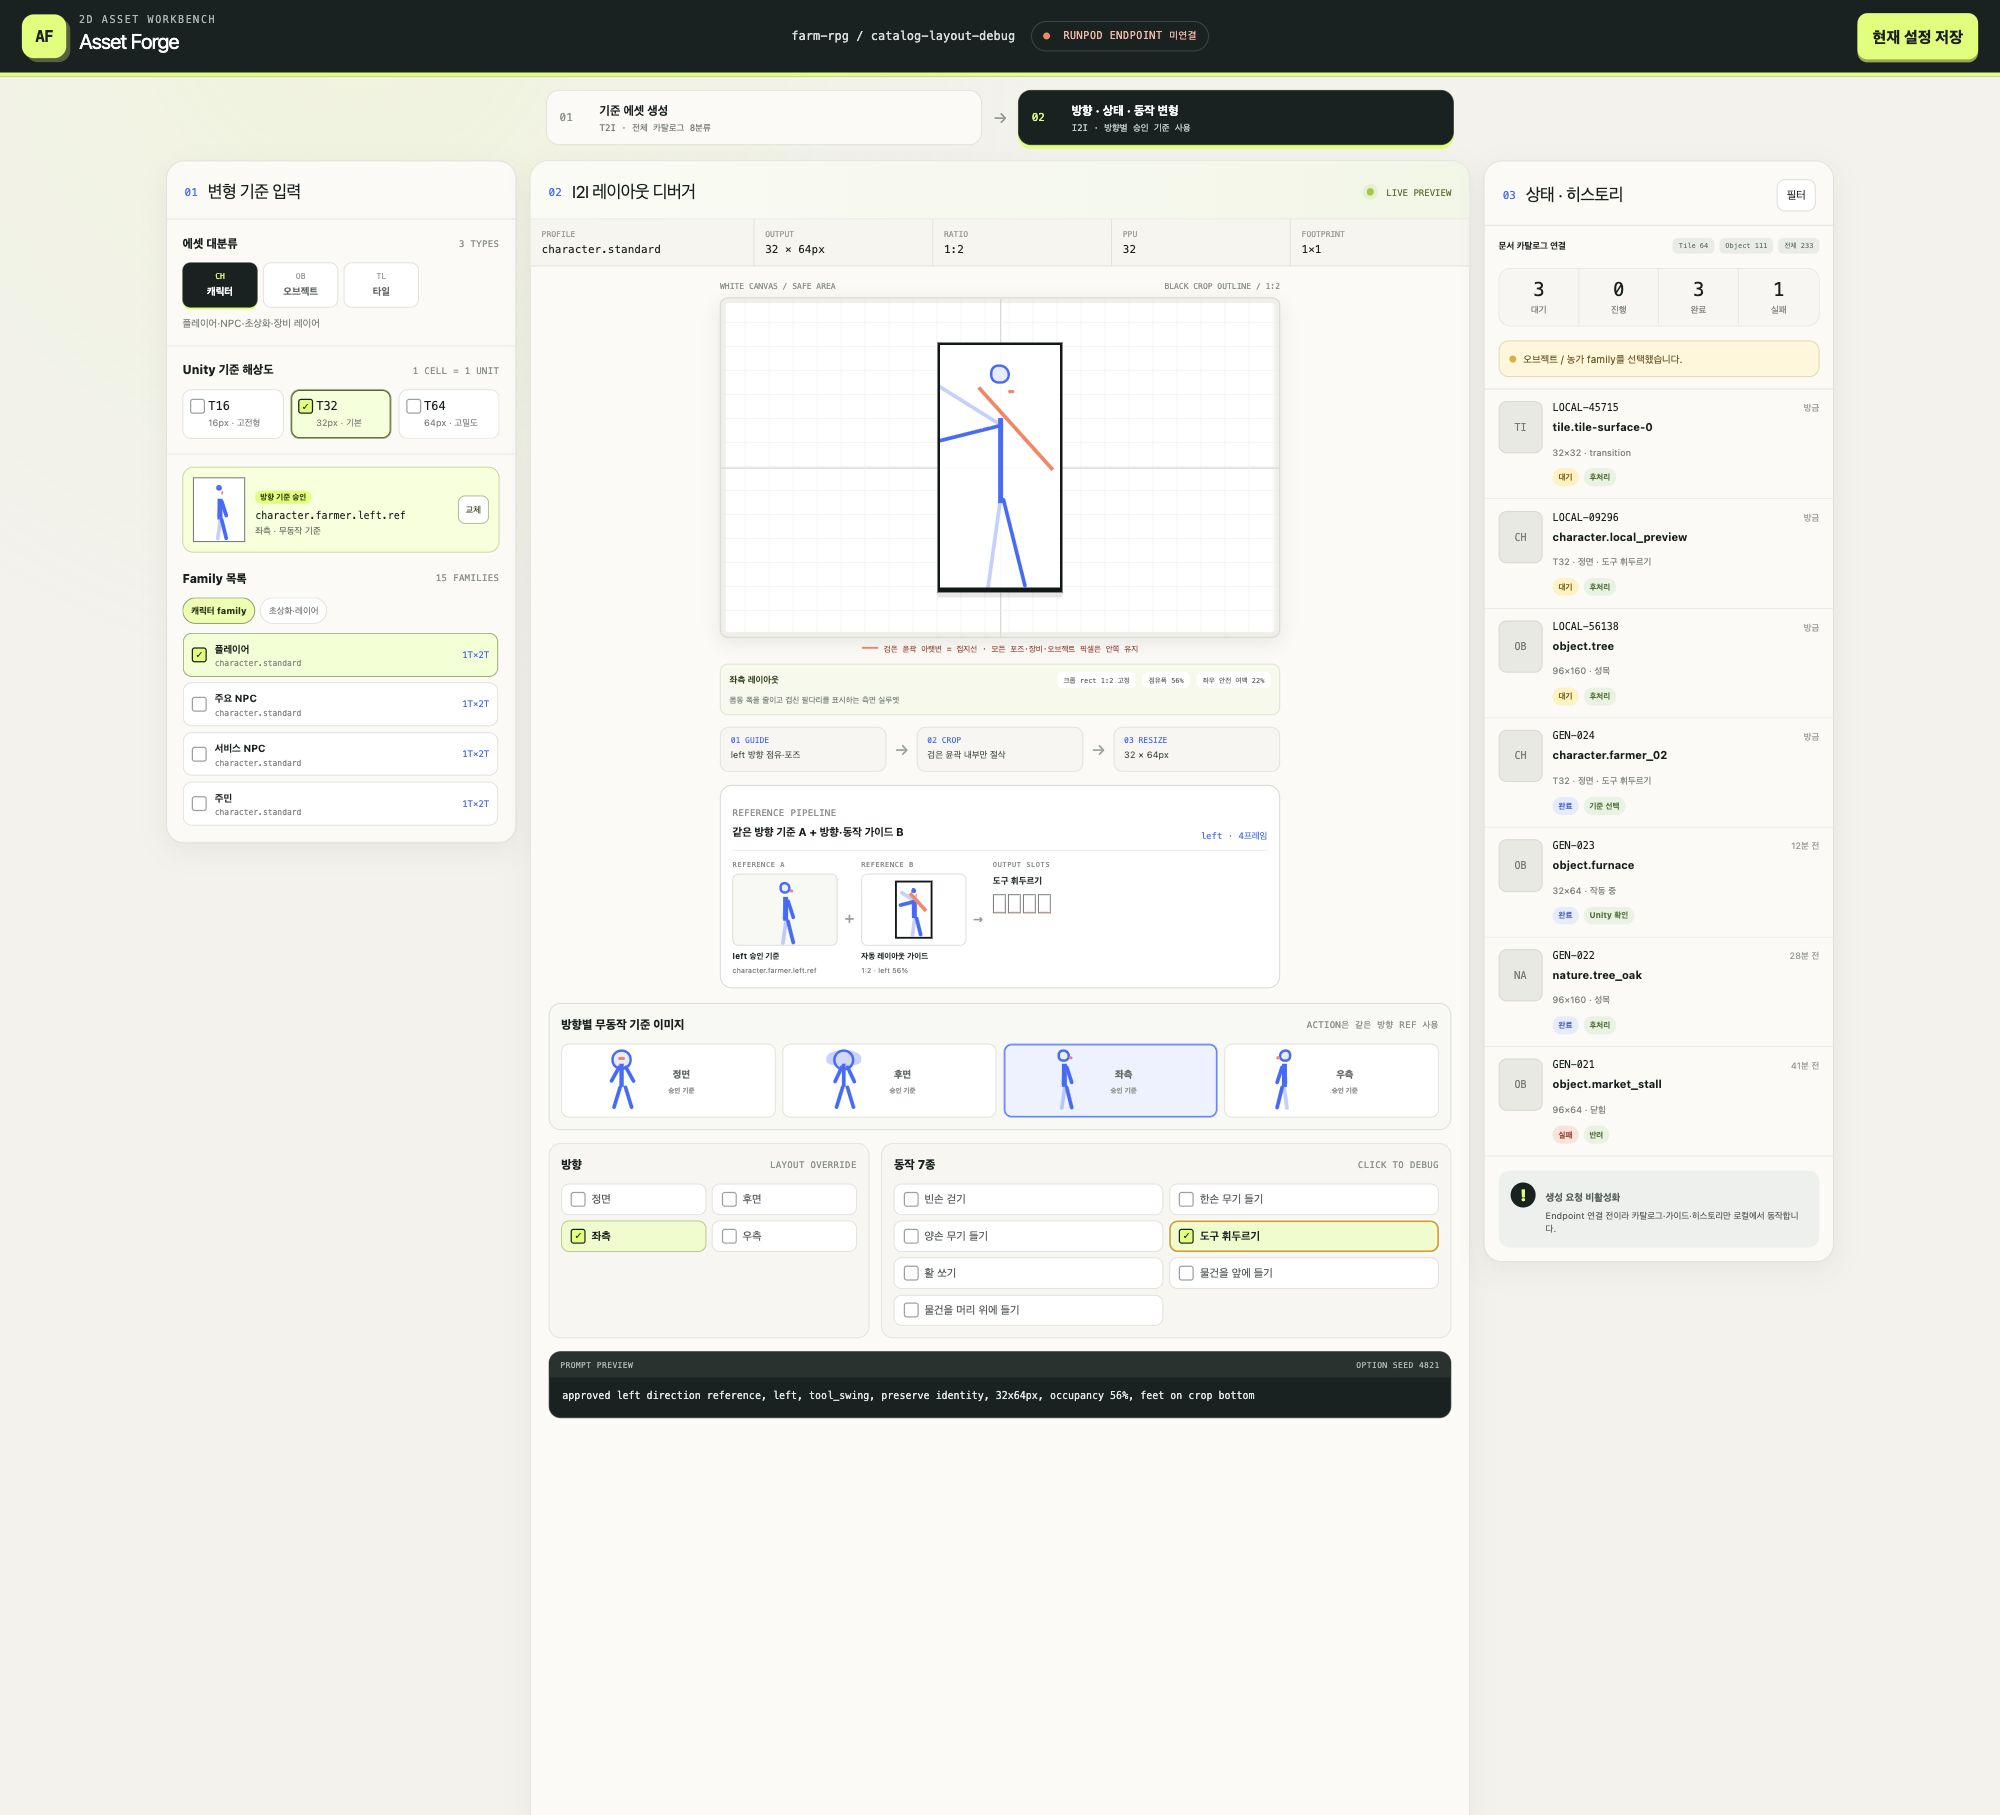
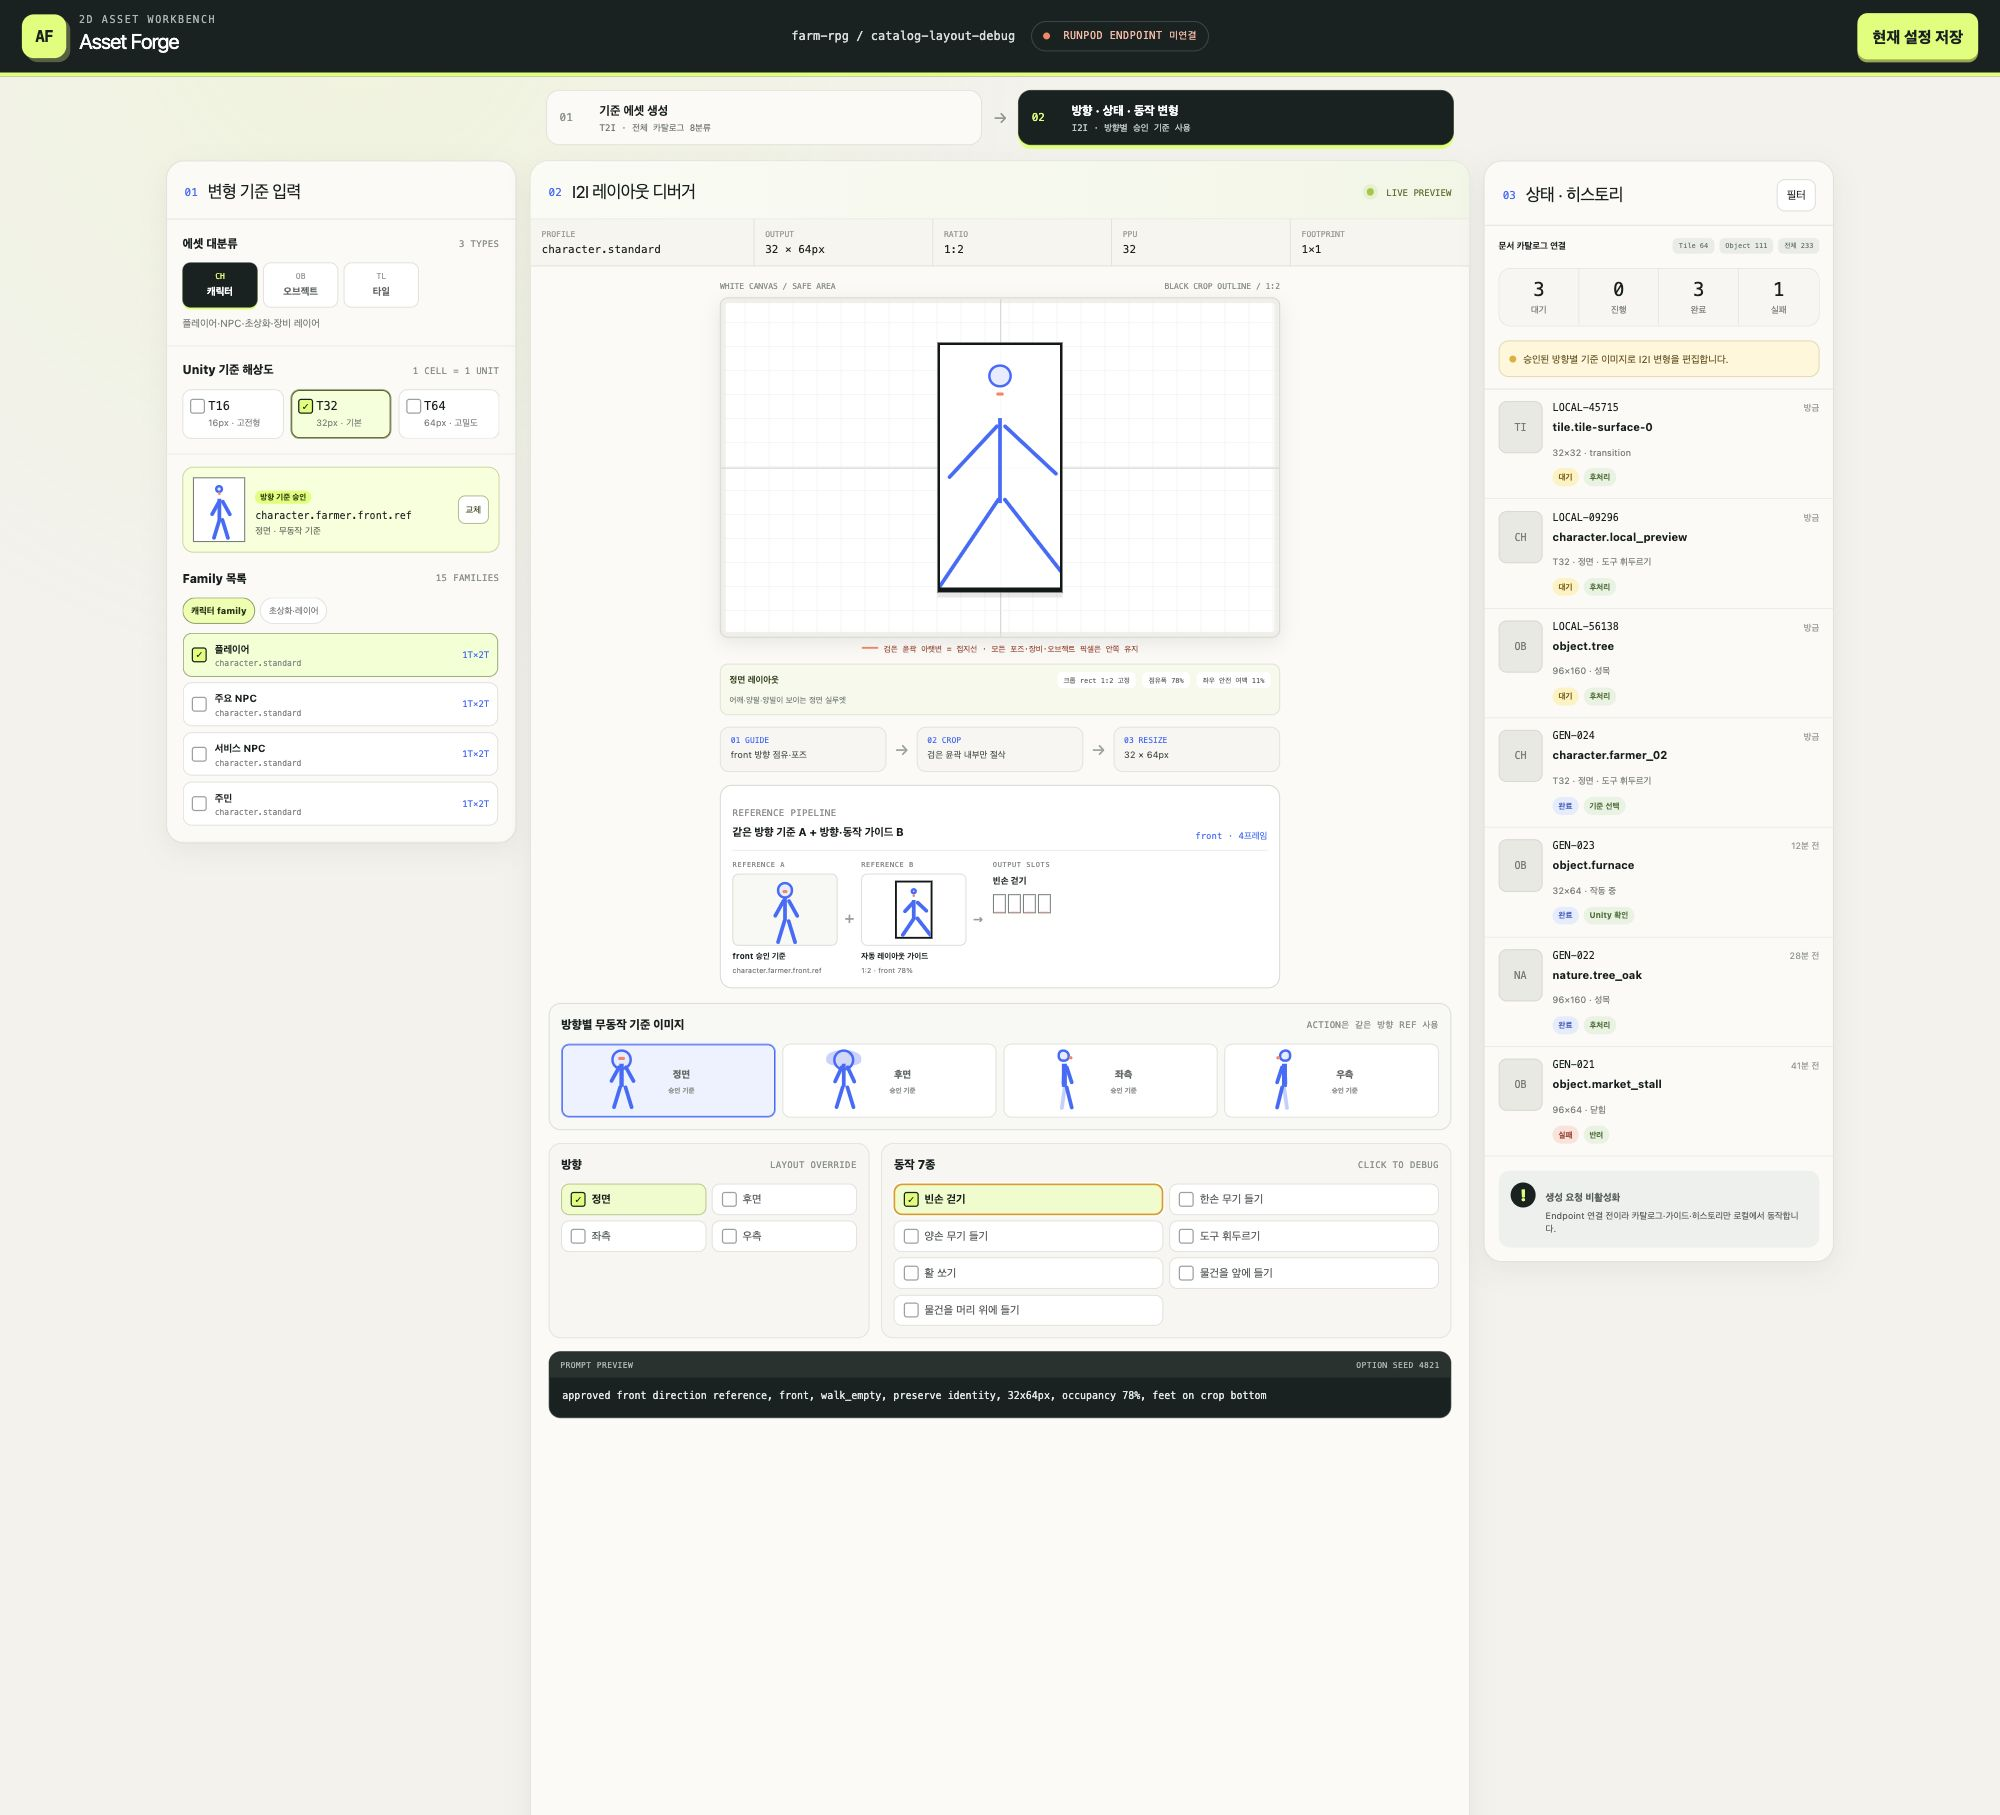
fix: align walking pose with ground

diff --git a/tools_test/app/globals.css b/tools_test/app/globals.css
@@ -401,7 +401,8 @@ button { font: inherit; }
 
 /* Exact action preset IDs from the product specification. */
 .pose-walk_empty .pose-arm-left { transform: rotate(43deg); }.pose-walk_empty .pose-arm-right { transform: rotate(-47deg); }
-.pose-walk_empty .pose-leg-left { transform: rotate(34deg); }.pose-walk_empty .pose-leg-right { transform: rotate(-38deg); }
+.pose-walk_empty .pose-leg-left { top: 61%; bottom: auto; height: 47%; transform: rotate(34deg); }
+.pose-walk_empty .pose-leg-right { top: 61%; bottom: auto; height: 49.5%; transform: rotate(-38deg); }
 .pose-weapon_1h .pose-arm-right { transform: rotate(-103deg); }
 .pose-weapon_1h .pose-equipment { display: block !important; left: 72%; top: 34%; height: 38%; transform: rotate(-24deg); background: var(--orange) !important; }
 .pose-weapon_2h .pose-arm-left { transform: rotate(82deg); }.pose-weapon_2h .pose-arm-right { transform: rotate(-82deg); }

diff --git a/tools_test/README.md b/tools_test/README.md
@@ -37,14 +37,25 @@ npm test
 |---|---|---|
 | 도구 1 | 타일, 오브젝트, 캐릭터, 생명체, 아이템, VFX, UI, 가이드 | 8분류 모두 해당 family·옵션·후보 화면으로 전환 |
 | 캐릭터 방향 | front, back, left, right | 점유 폭 `78%`, `76%`, `56%`, `56%`와 방향별 Reference A 변경 |
-| 캐릭터 동작 | `walk_empty`, `weapon_1h`, `weapon_2h`, `tool_swing`, `bow_shoot`, `carry_front`, `carry_overhead` | 프레임 슬롯 `4`, `2`, `2`, `4`, `3`, `1`, `1`과 내부 포즈 변경 |
+| 캐릭터 동작 | `walk_empty`, `weapon_1h`, `weapon_2h`, `tool_swing`, `bow_shoot`, `carry_front`, `carry_overhead` | 프레임 슬롯 `4`, `2`, `2`, `4`, `3`, `1`, `1`과 내부 포즈 변경. 걷기는 골반 연결점을 유지하고 각도별 다리 길이를 보정해 양발의 바닥선 접촉 유지 |
 | 오브젝트 | 일반 나무, 농가 | 윤곽 ratio와 출력이 `3:5 / 96×160`, `6:7 / 192×224`로 변경 |
 | 타일 | center, edge, outer corner, inner corner, transition, 47-tile blob | 6개 topology 가이드 모두 변경 |
 | 히스토리 | 현재 설정 저장 | `LOCAL-*` 항목 추가와 대기 상태 집계 변경 |
 
-캡처는 `public/screenshots`에 저장한다.
+## 화면 캡처
 
-- `01-t2i-full-catalog.png`: 도구 1의 전체 대분류와 타일 기준 후보
-- `02-i2i-direction-layouts.png`: 방향별 기준 strip과 좌측 `tool_swing` 가이드
-- `03-i2i-object-layout.png`: 농가 `6:7` 규격 윤곽과 접지선
-- `04-i2i-tile-layout.png`: 타일 `transition` topology 가이드
+### 도구 1 — 전체 대분류와 타일 기준 후보
+
+![도구 1 전체 에셋 카탈로그](./public/screenshots/01-t2i-full-catalog.png)
+
+### 캐릭터 — 방향별 기준과 바닥선에 닿는 빈손 걷기
+
+![방향별 캐릭터 기준과 빈손 걷기 접지](./public/screenshots/02-i2i-direction-layouts.png)
+
+### 오브젝트 — 농가 6:7 규격 윤곽과 접지선
+
+![농가 오브젝트 규격 레이아웃](./public/screenshots/03-i2i-object-layout.png)
+
+### 타일 — transition topology 가이드
+
+![타일 transition 레이아웃](./public/screenshots/04-i2i-tile-layout.png)
